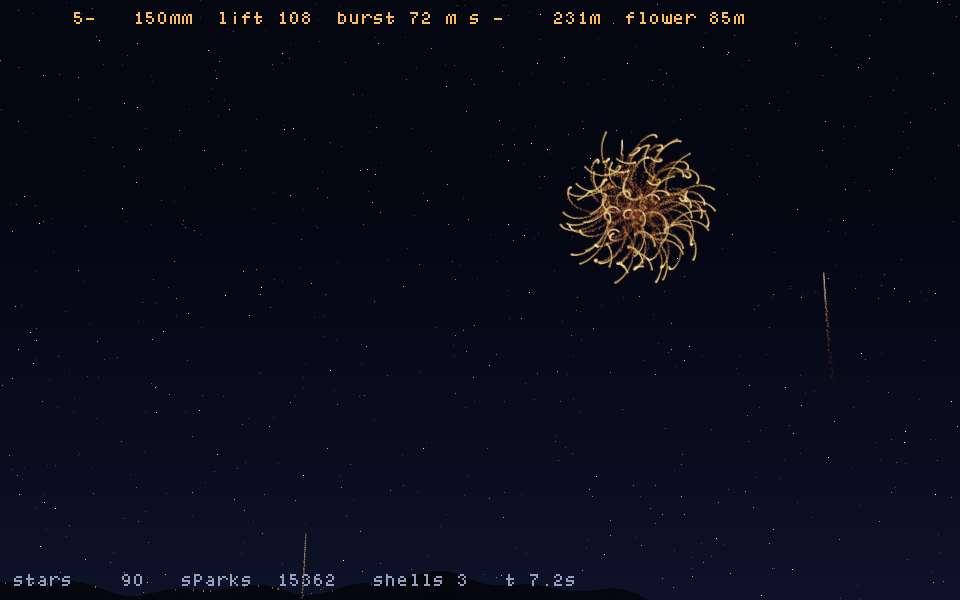
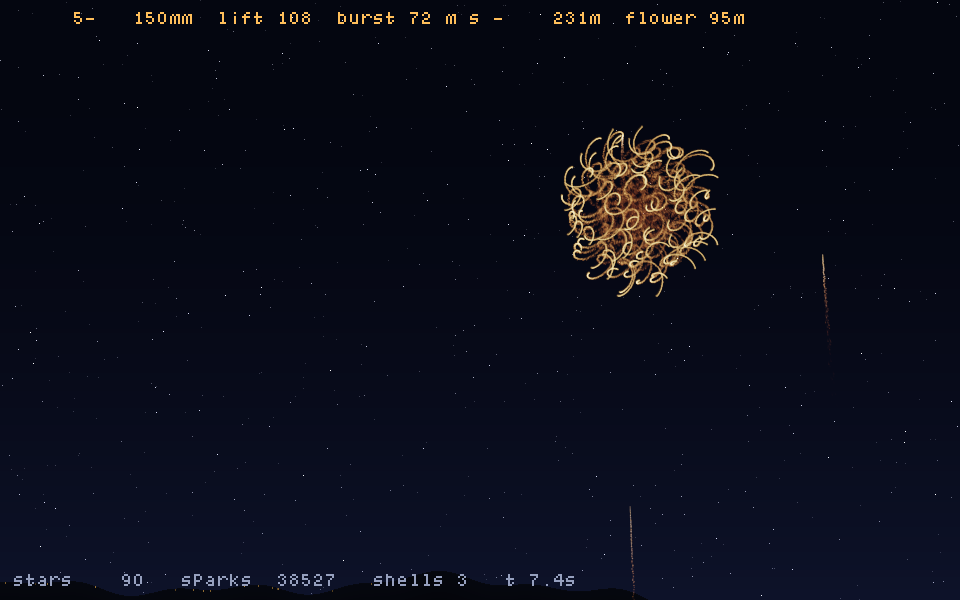
渦蜂の回転をさらに速く、火の粉を円弧上に位相補間して撒く
- 点火直後の回転を 26〜40 -> 42〜68 rad/s (7〜11回転/秒)に。
  減衰もゆるめ(B 0.09〜0.14)にして、燃え尽きるまでに3〜4周巻くようにした
- R = 推力/ω^2 なので ω を上げるだけだと輪が見えなくなる。
  推力を 280〜500 -> 900〜1500 に上げて周回半径を確保
- 回転が速いと1サブステップ(1/240秒)で位相が飛び、火の粉の軌跡が点線になるので、
  そのサブステップ内の円弧上に位相を補間して撒くようにした(hachi_offset_at)
- 剥離量も 1.6 -> 3.6 倍にして軌跡を連続させた
- 100連打で 3.7ms/フレーム、火の粉29万粒

Changed region(s): [[0.5625, 0.21, 0.75, 0.51], [0.3125, 0.96, 0.3438, 0.99]]

diff --git a/src/hanabi_os.cpp b/src/hanabi_os.cpp
@@ -189,15 +189,16 @@ enum {
 static inline bool is_shaped(int t) { return t == T_HEART || t == T_RING || t == T_SATURN; }
 struct Flash { double x, y, z; double t, t0, pw; bool alive; };
 
-// 中心からのずれと、周回による速度を返す
-static void hachi_offset(const Star& st, double& ox, double& oy, double& oz,
-                         double& ovx, double& ovy, double& ovz) {
+// 位相 phase のときの、中心からのずれと周回による速度を返す
+static void hachi_offset_at(const Star& st, double phase,
+                            double& ox, double& oy, double& oz,
+                            double& ovx, double& ovy, double& ovz) {
     double w = st.spin;
     double aw = fabs(w);
     if (aw < 0.5) aw = 0.5;
     double R = st.thrust * (st.r / st.r0) / (aw * aw);
     if (R > 22.0) R = 22.0;                       // 回転が落ちきっても暴れないように
-    double cs = cos(st.sphase), sn = sin(st.sphase);
+    double cs = cos(phase), sn = sin(phase);
     ox = R * (st.ux * cs + st.wx * sn);
     oy = R * (st.uy * cs + st.wy * sn);
     oz = R * (st.uz * cs + st.wz * sn);
@@ -205,6 +206,10 @@ static void hachi_offset(const Star& st, double& ox, double& oy, double& oz,
     ovx = R * w * (-st.ux * sn + st.wx * cs);
     ovy = R * w * (-st.uy * sn + st.wy * cs);
     ovz = R * w * (-st.uz * sn + st.wz * cs);
+}
+static void hachi_offset(const Star& st, double& ox, double& oy, double& oz,
+                         double& ovx, double& ovy, double& ovz) {
+    hachi_offset_at(st, st.sphase, ox, oy, oz, ovx, ovy, ovz);
 }
 
 static std::vector<Star>  stars;
@@ -425,7 +430,7 @@ static void burst(Shell& sh) {
     if (sh.type == T_YANAGI) { tv = 0.48; tb = 1.95; tshed = 1.7; }   // 柳   — 低速で長く燃え垂れる
     // 蜂の類は推進薬を推力と回転に使い切るので、燃焼は短い(1.5〜2秒)。光る時間も短い
     if (sh.type == T_HACHI)  { tv = 0.50; tb = 1.45; tshed = 0.85; tthrust = 1.0; }  // 蜂
-    if (sh.type == T_UZU)    { tv = 0.90; tb = 0.34; tshed = 1.60; tthrust = 2.0; }  // 渦蜂
+    if (sh.type == T_UZU)    { tv = 0.90; tb = 0.34; tshed = 3.60; tthrust = 2.0; }  // 渦蜂
     if (is_shaped(sh.type))  { tv = 1.00; tb = 0.68; tshed = 0.24; } // 型物 — 形が読めるよう尾は短く
     int layers = 1 + ((sh.type == T_YANAGI || sh.type == T_HACHI || sh.type == T_UZU
                        || is_shaped(sh.type)) ? 0 : sh.layers);
@@ -436,8 +441,8 @@ static void burst(Shell& sh) {
     if (gal < 1e-6) { gax = 0; gay = 1; gaz = 0; gal = 1; }
     gax /= gal; gay /= gal; gaz /= gal;
     double gsign = (rnd() < 0.5) ? -1.0 : 1.0;
-    double gomega = 26.0 + 14.0 * rnd();    // [rad/s] 点火直後の回転(4〜6回転/秒)
-    double gdamp  = 0.16 + 0.10 * rnd();    // 回転の落ち方
+    double gomega = 42.0 + 26.0 * rnd();    // [rad/s] 点火直後の回転(7〜11回転/秒)
+    double gdamp  = 0.09 + 0.05 * rnd();    // 回転の落ち方(ゆっくり落とすと何周も巻く)
     for (int L = 0; L < layers; ++L) {
         double vscale = (L == 0) ? 1.0 : (0.62 - 0.20 * (L - 1));   // 芯は内側 = 遅い
         // 蜂は1個1個の軌跡を見せたいので星数を減らす(実物も星数は少ない)
@@ -545,7 +550,7 @@ static void burst(Shell& sh) {
                 if (uzu) {
                     // 渦蜂 — 半径 R = 推力/ω^2。点火直後は速く回るので輪は小さく、
                     // 回転が落ちるにつれて輪が開いていく。回転にエネルギーを使うので短命
-                    st.thrust = (float)(280.0 + 220.0 * rnd());
+                    st.thrust = (float)(900.0 + 600.0 * rnd());
                     st.spin   = (float)(gsign * gomega * (1.0 + rnds() * 0.10)); // 向きも速さも揃える
                     st.spinB  = (float)(gdamp * (1.0 + rnds() * 0.15));
                 } else {
@@ -849,6 +854,7 @@ KEEP void sim_step(int frames) {
                 double vrx = st.vx - p_wind, vry = st.vy, vrz = st.vz;
                 double sp = sqrt(vrx * vrx + vry * vry + vrz * vrz);
                 double ax = -k * sp * vrx, ay = -k * sp * vry - G_ACC, az = -k * sp * vrz;
+                double sph0 = st.sphase;      // このサブステップの開始位相(火の粉の補間に使う)
                 if (st.thrust > 0.0f) {
                     // 回転は空気抵抗で落ちていく: dω/dt = -B|ω|ω (これも差分)
                     st.spin -= st.spinB * fabsf(st.spin) * st.spin * (float)dt;
@@ -887,11 +893,18 @@ KEEP void sim_step(int frames) {
                 st.shed += st.shedRate * qual * dt;
                 if (st.shed >= 1.0) {
                     // 渦蜂は中心のまわりを回っているので、火の粉は周回中の位置から
-                    // 接線方向の速度を持って剥がれる(これが渦の軌跡になる)
+                    // 接線方向の速度を持って剥がれる(これが渦の軌跡になる)。
+                    // 回転が速いと 1 サブステップで位相がかなり進むので、
+                    // このサブステップ内の円弧上に分けて撒かないと軌跡が点線になる
+                    int nsh = (int)st.shed;
                     double ox = 0, oy = 0, oz = 0, ovx = 0, ovy = 0, ovz = 0;
-                    if (st.orbit) hachi_offset(st, ox, oy, oz, ovx, ovy, ovz);
-                    while (st.shed >= 1.0) {
+                    for (int q = 0; q < nsh; ++q) {
                         st.shed -= 1.0;
+                        if (st.orbit) {
+                            double f = (q + 0.5) / nsh;
+                            hachi_offset_at(st, sph0 + (st.sphase - sph0) * f,
+                                            ox, oy, oz, ovx, ovy, ovz);
+                        }
                         emit_spark(st.x + ox, st.y + oy, st.z + oz,
                                    (st.vx + ovx) * 0.12 + rnds() * 2.0,
                                    (st.vy + ovy) * 0.12 + rnds() * 2.0,

diff --git a/resume.md b/resume.md
@@ -62,10 +62,14 @@ T_HACHI, T_UZU, T_SENRIN, T_HEART, T_RING, T_SATURN }`。
 - **渦蜂**=蜂とは回り方の仕組みが違う。**星そのものが中心のまわりを周回**する(`Star::orbit`)。
   `x,y,z` は回る中心＝普通の弾道で、表示位置と火の粉は `hachi_offset()` が返すオフセット/接線速度を足す。
   推力が向心力なので **R = 推力/ω²**、回転は `dω/dt = -B|ω|ω` で落ちる。
-  点火直後 26〜40 rad/s(4〜6回転/秒) → 輪が小さい → 回転が落ちて輪が開く。
+  点火直後 42〜68 rad/s(7〜11回転/秒) → 輪が小さい → 回転が落ちて輪が開く。燃え尽きるまでに3〜4周巻く。
+  **回転が速いと1サブステップで位相が飛ぶので、火の粉は円弧上に位相補間して撒く**
+  (`hachi_offset_at()`)。これをやらないと軌跡が点線になる。
   燃焼は ×0.34(≒1.6秒)と短命。回転軸・向き・速さは玉全体で共有。
   （試行錯誤: 最初は推力を加速度に足すモデルで40m級の巨大な風車 → 「大きすぎる」→
-   速く小さくしたが → 「星の中心が回転するイメージ」「最初速く回って落ちる」「光る時間は短い」で今の形）
+   速く小さくしたが → 「星の中心が回転するイメージ」「最初速く回って落ちる」「光る時間は短い」→
+   さらに「もっともっと回転が速い」で ω0 を上げ、見える周回数を稼ぐため推力を 900〜1500 に上げた。
+   R=推力/ω² なので、ω を上げるだけだと輪が見えなくなる点に注意）
 - **千輪**=`burst()` で星ではなく `spawn_child()` で子玉 Shell を撒く。`gen` で世代を区別。
   子玉は下向きにも撒かれるので、親用の「落下し始めたら開く」フォールバックを子玉には適用しないこと（`gen==0` 条件）
 - **型物**=`shape_point()` の輪郭に並べ、中心からの距離に比例した速度で押し出す。土星だけ芯を3D球にして銀色に
